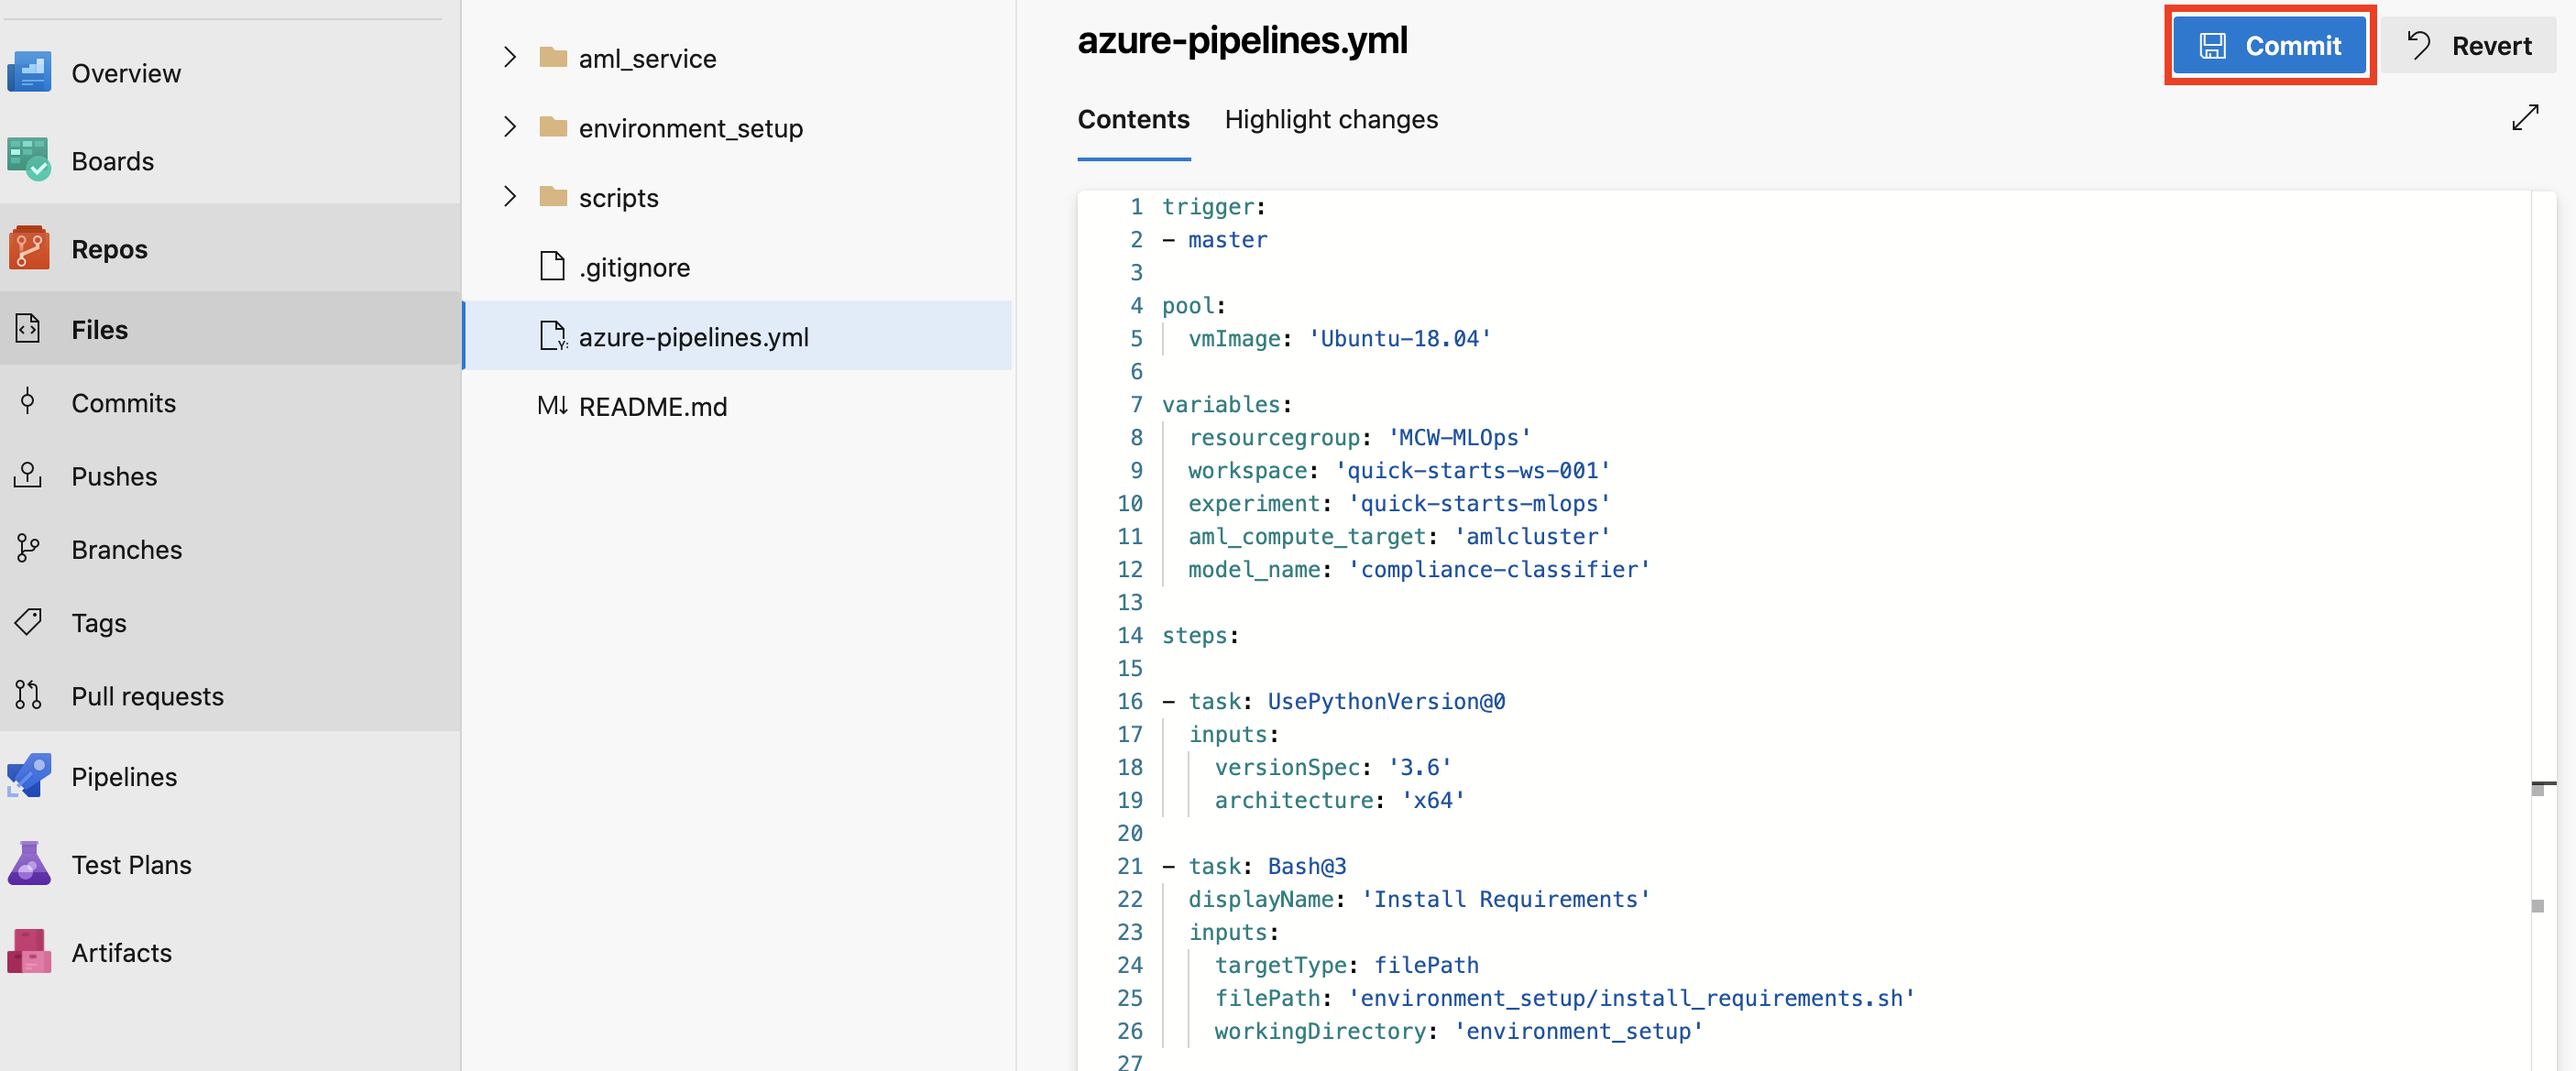
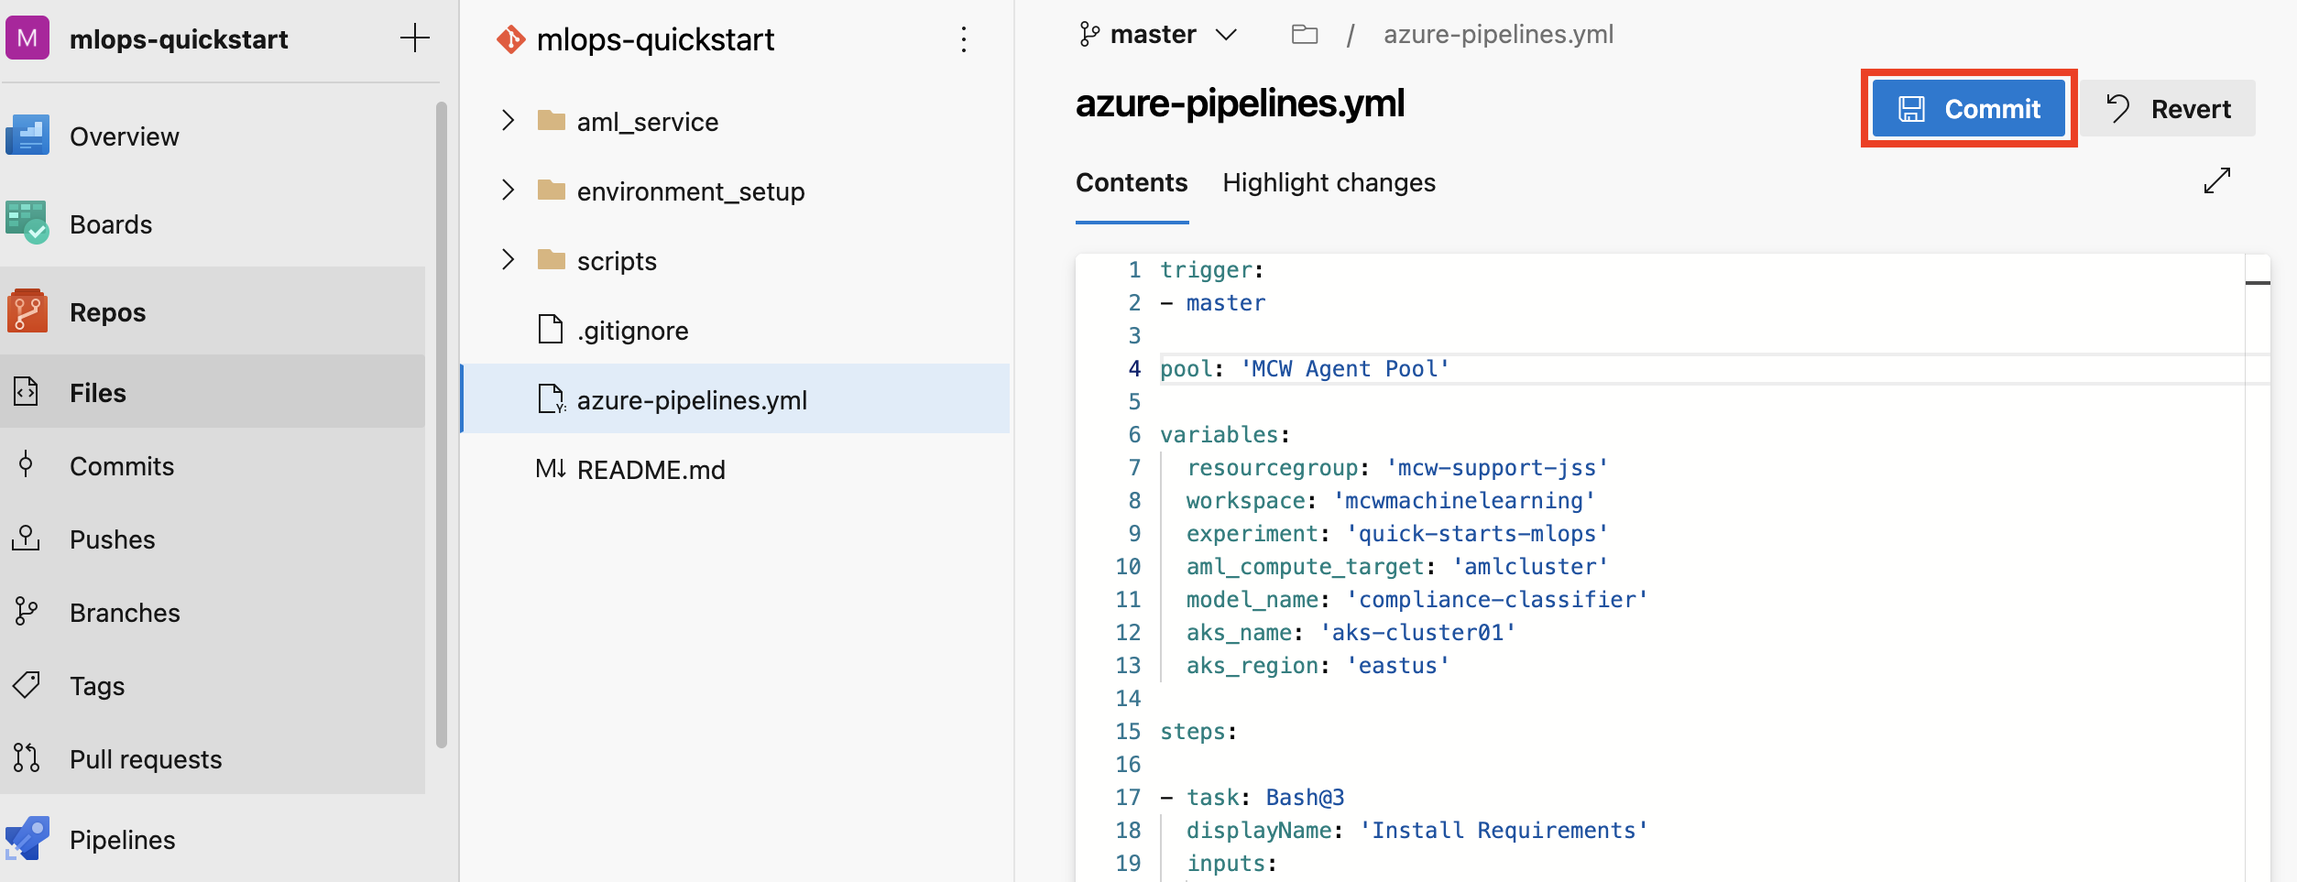
Fix issue #43

diff --git a/Hands-on lab/HOL step-by-step - MLOps.md b/Hands-on lab/HOL step-by-step - MLOps.md
@@ -40,9 +40,10 @@ Microsoft and the trademarks listed at <https://www.microsoft.com/en-us/legal/in
     - [Task 2: Register Model from Azure Machine Learning studio](#task-2-register-model-from-azure-machine-learning-studio)
   - [Exercise 3: Setup New Project in Azure DevOps](#exercise-3-setup-new-project-in-azure-devops)
     - [Task 1: Create New Project](#task-1-create-new-project)
-    - [Task 2: Import Quickstart code from a GitHub Repo](#task-2-import-quickstart-code-from-a-github-repo)
-    - [Task 3: Update the build YAML file](#task-3-update-the-build-yaml-file)
-    - [Task 4: Create new Service Connection](#task-4-create-new-service-connection)
+    - [Task 2: Setup Self Hosted Agent Pool](#task-2-setup-self-hosted-agent-pool)
+    - [Task 3: Import Quickstart code from a GitHub Repo](#task-3-import-quickstart-code-from-a-github-repo)
+    - [Task 4: Update the build YAML file](#task-4-update-the-build-yaml-file)
+    - [Task 5: Create new Service Connection](#task-5-create-new-service-connection)
   - [Exercise 4: Setup and Run the Build Pipeline](#exercise-4-setup-and-run-the-build-pipeline)
     - [Task 1: Setup Build Pipeline](#task-1-setup-build-pipeline)
     - [Task 2: Run the Build Pipeline](#task-2-run-the-build-pipeline)
@@ -161,7 +162,7 @@ In this exercise, you create a model for classifying component text as compliant
 
     > **Note**: Once the VM is available it will be displayed in the top toolbar.
 
-11. Having selected the uploaded **Deep Learning with Text.ipynb** notebook, select the **Edit** drop down, and then select **Edit in Jupyter**. The new browser window will be opened.
+11. Having selected the uploaded **Deep Learning with Text.ipynb** notebook, select the **Menu** drop down, and then select **Edit in Jupyter**. In the pop dialog, select **Continue** and then a new browser tab will be opened.
 
     ![On the Notebooks screen, the Deep Learning with Text Notebook is selected. On the Compute screen to the right, a drop down list shows the compute currently running for the notebook, and in the taskbar the Edit option is expanded with the options Edit in Jupyter and Edit in JupyterLab.](media/notebook-05.png 'Edit the notebook in Jupyter')
 
@@ -241,7 +242,15 @@ Duration: 20 minutes
 
     ![The Create new project dialog is shown populated with the value above. Visibility is set to Private, and the Create button is highlighted.](media/devops-project-02.png 'Create New Project Dialog')
 
-### Task 2: Import Quickstart code from a GitHub Repo
+### Task 2: Setup Self Hosted Agent Pool
+
+Please follow the step-by-step instructions at [Self-hosted Linux agents](https://docs.microsoft.com/en-us/azure/devops/pipelines/agents/v2-linux?view=azure-devops) to setup an **Linux (ubuntu 18.04)** agent pool. You can name the agent pool, for example as **MCW Agent Pool** in Azure DevOps. It is important the Linux agent VM has the following setup:
+
+    - The default python version is python3
+    - Python pip is installed
+    - Miniconda3 is installed
+
+### Task 3: Import Quickstart code from a GitHub Repo
 
 1. Within the new project:
 
@@ -255,11 +264,11 @@ Duration: 20 minutes
 
     ![In the Import a Git repository dialog, the Clone URL is populated with the value indicated above and the Import button is selected.](media/devops-project-04.png 'Import a Git repository dialog')
 
-### Task 3: Update the build YAML file
+### Task 4: Update the build YAML file
 
 1. Select and open the **azure-pipelines.yml** file.
 
-2. Select **Edit** and update the following variables: **resourcegroup**, and **workspace**. If you are using your own Azure subscription, please provide names to use. If an environment is provided to you, be sure to replace XXXXX in the values below with your unique identifier.
+2. Select **Edit** and update the following variables: **pool**, **resourcegroup**, and **workspace**. For the `pool` name, please provide the name of the self-hosted agent pool you created for this lab.
 
     ![In the left menu, beneath Repos, the Files item is selected. In the files list, azure-pipelines.yml is selected. In the editor pane, the contents of the file are displayed with the resource group and workspace variables highlighted. The Edit button is selected in the top toolbar.](media/devops-build-pipeline-01.png 'Edit Build YAML file')
 
@@ -267,7 +276,7 @@ Duration: 20 minutes
 
     ![The content of azure-pipelines.yml is updated and the Commit button is selected in the top taskbar.](media/devops-build-pipeline-02.png 'Commit Build YAML file')
 
-### Task 4: Create new Service Connection
+### Task 5: Create new Service Connection
 
 1. From the left navigation, select **Project settings** and then select **Service connections**.
 
@@ -446,7 +455,7 @@ Duration: 20 minutes
 
     ![On the New release pipeline screen, within the Test Deployment tile, the View stage tasks link is selected.](media/devops-release-pipeline-06b.png 'View Stage Tasks')
 
-2. Select **Agent job** and set **Agent pool** to `Azure Pipelines` and change **Agent Specification** to `ubuntu-18.04`.
+2. Select **Agent job** and set **Agent pool** to the name of the self-hosted agent pool you created for this lab.
 
     ![On the New release pipeline screen, Tasks tab, the Agent job is selected. The Agent job details form is populated with the aforementioned values.](media/devops-release-pipeline-10b.png 'Agent Job Setup')
 
